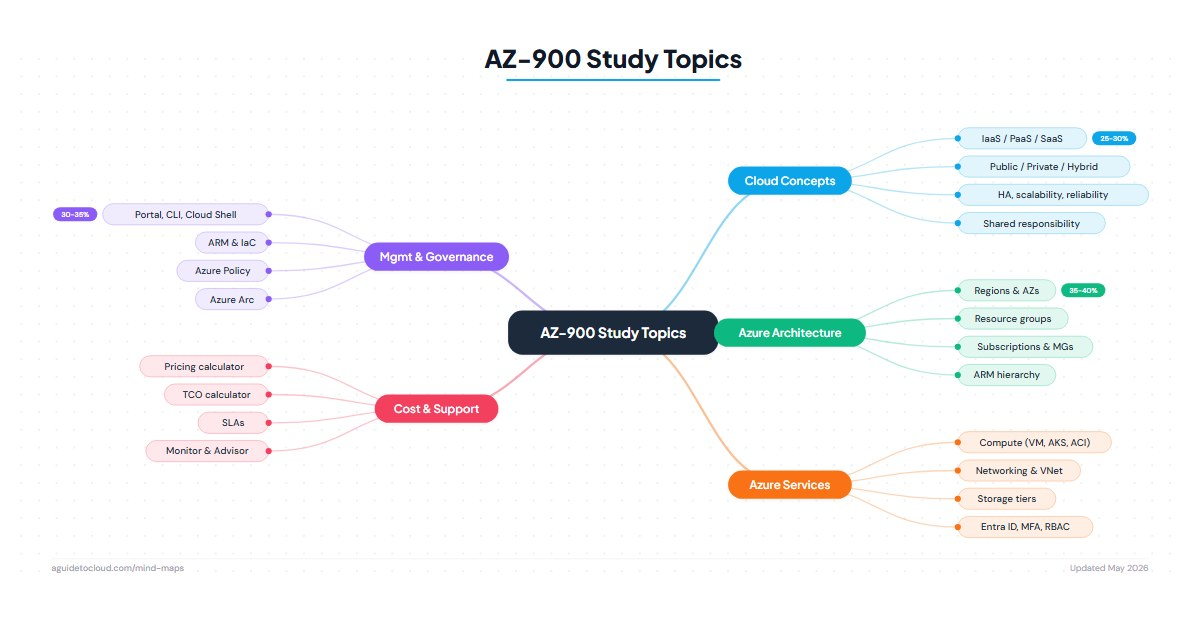
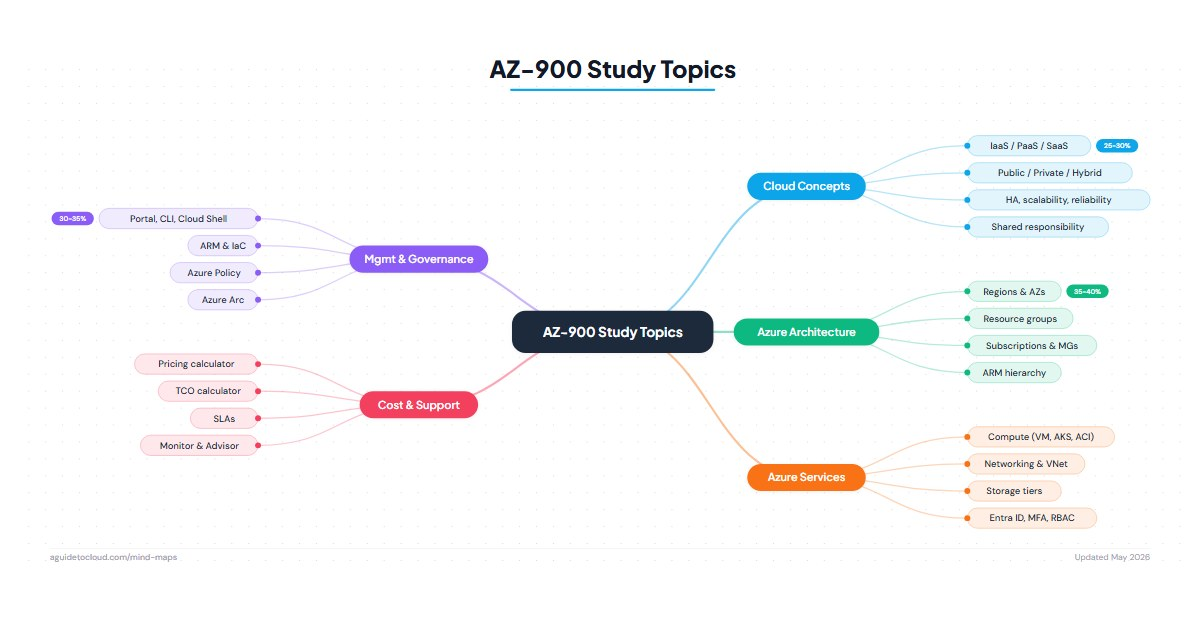
fix: Mind maps — dynamic levelGap to prevent root/branch overlap
When map titles are long (e.g. 'E3 vs E5 — What's the Difference?'),
the root pill grows wider than the fixed 200px branch offset, causing
branch pills to physically overlap the root.

Fix: compute levelGap dynamically:
  levelGap = max(200, rootW/2 + maxBranchPillW/2 + 24)

Guarantees at least 24px breathing room between root edge and nearest
branch edge regardless of title or branch label length.

Verified via Playwright bbox check across all 12 maps — zero overlaps,
zero tight gaps. OG images regenerated.

diff --git a/static/js/mind-maps-v2.js b/static/js/mind-maps-v2.js
@@ -50,9 +50,23 @@
     var branchGap = 24;      /* extra gap between branches */
     var rootX = 0;
     var rootY = 0;
-    var levelGap = 200;      /* horizontal distance root→branch */
     var childGap = 190;      /* horizontal distance branch→children */
     var childSpacing = 32;   /* vertical space between children */
+
+    /* Compute root pill width (matches the root rendering math below) */
+    var rootTextLenForGap = data.name.length * 10 + 48;
+    var rootWForGap = Math.max(180, rootTextLenForGap);
+
+    /* Compute the widest branch pill (matches branch rendering math below) */
+    var maxBranchPillW = 100;
+    branches.forEach(function (b) {
+      var bw = Math.max(100, b.data.name.length * 8 + 28);
+      if (bw > maxBranchPillW) maxBranchPillW = bw;
+    });
+
+    /* Dynamic levelGap: keep at least 24px breathing room between root edge and nearest branch edge.
+       Without this, long titles (large root pill) collide with branches sitting at the default 200px. */
+    var levelGap = Math.max(200, rootWForGap / 2 + maxBranchPillW / 2 + 24);
 
     /* Split branches: first half right, second half left */
     var rightCount = Math.ceil(n / 2);
